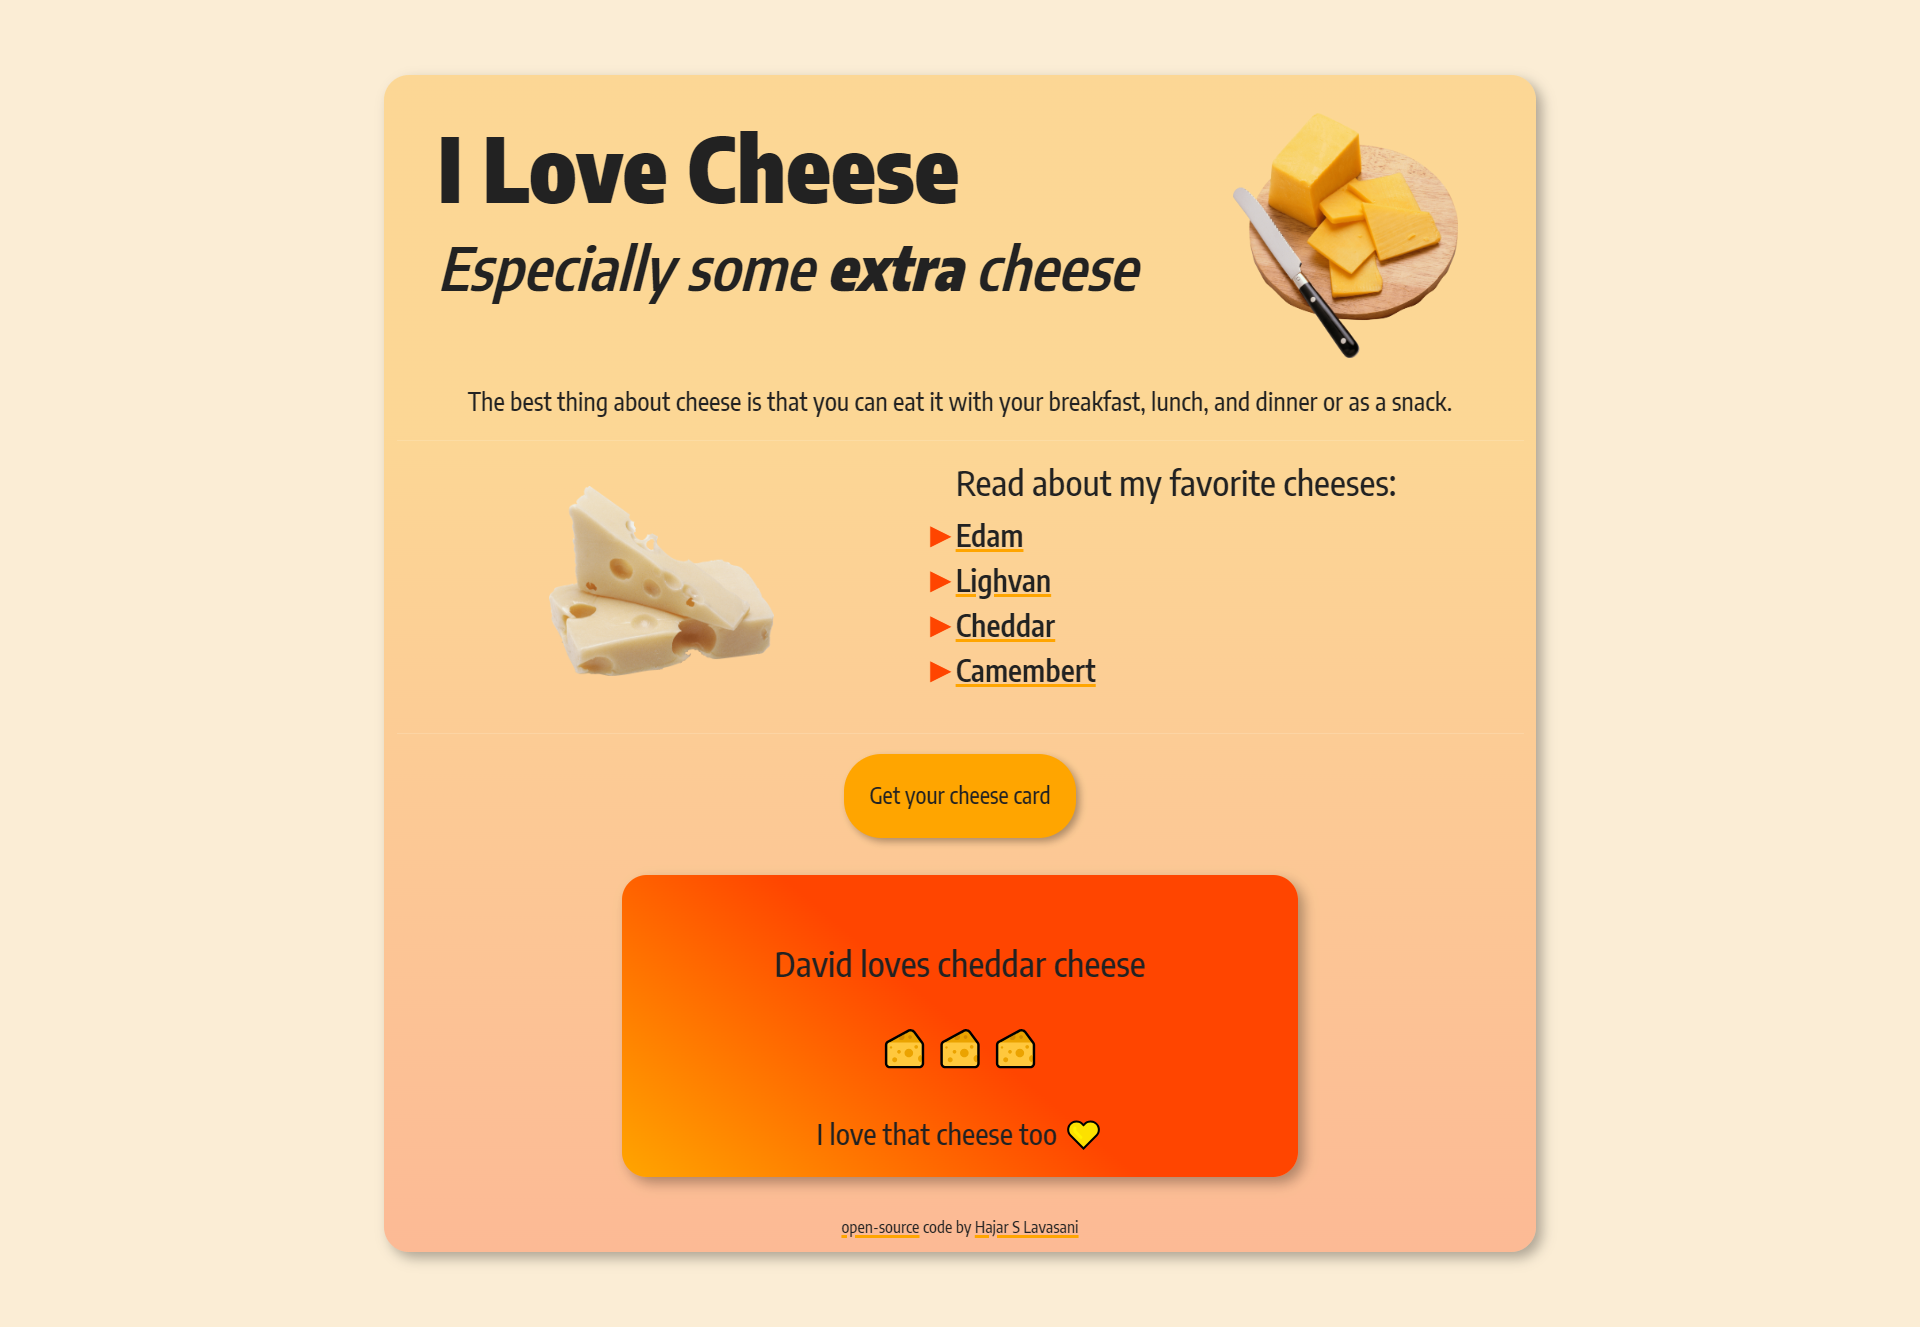
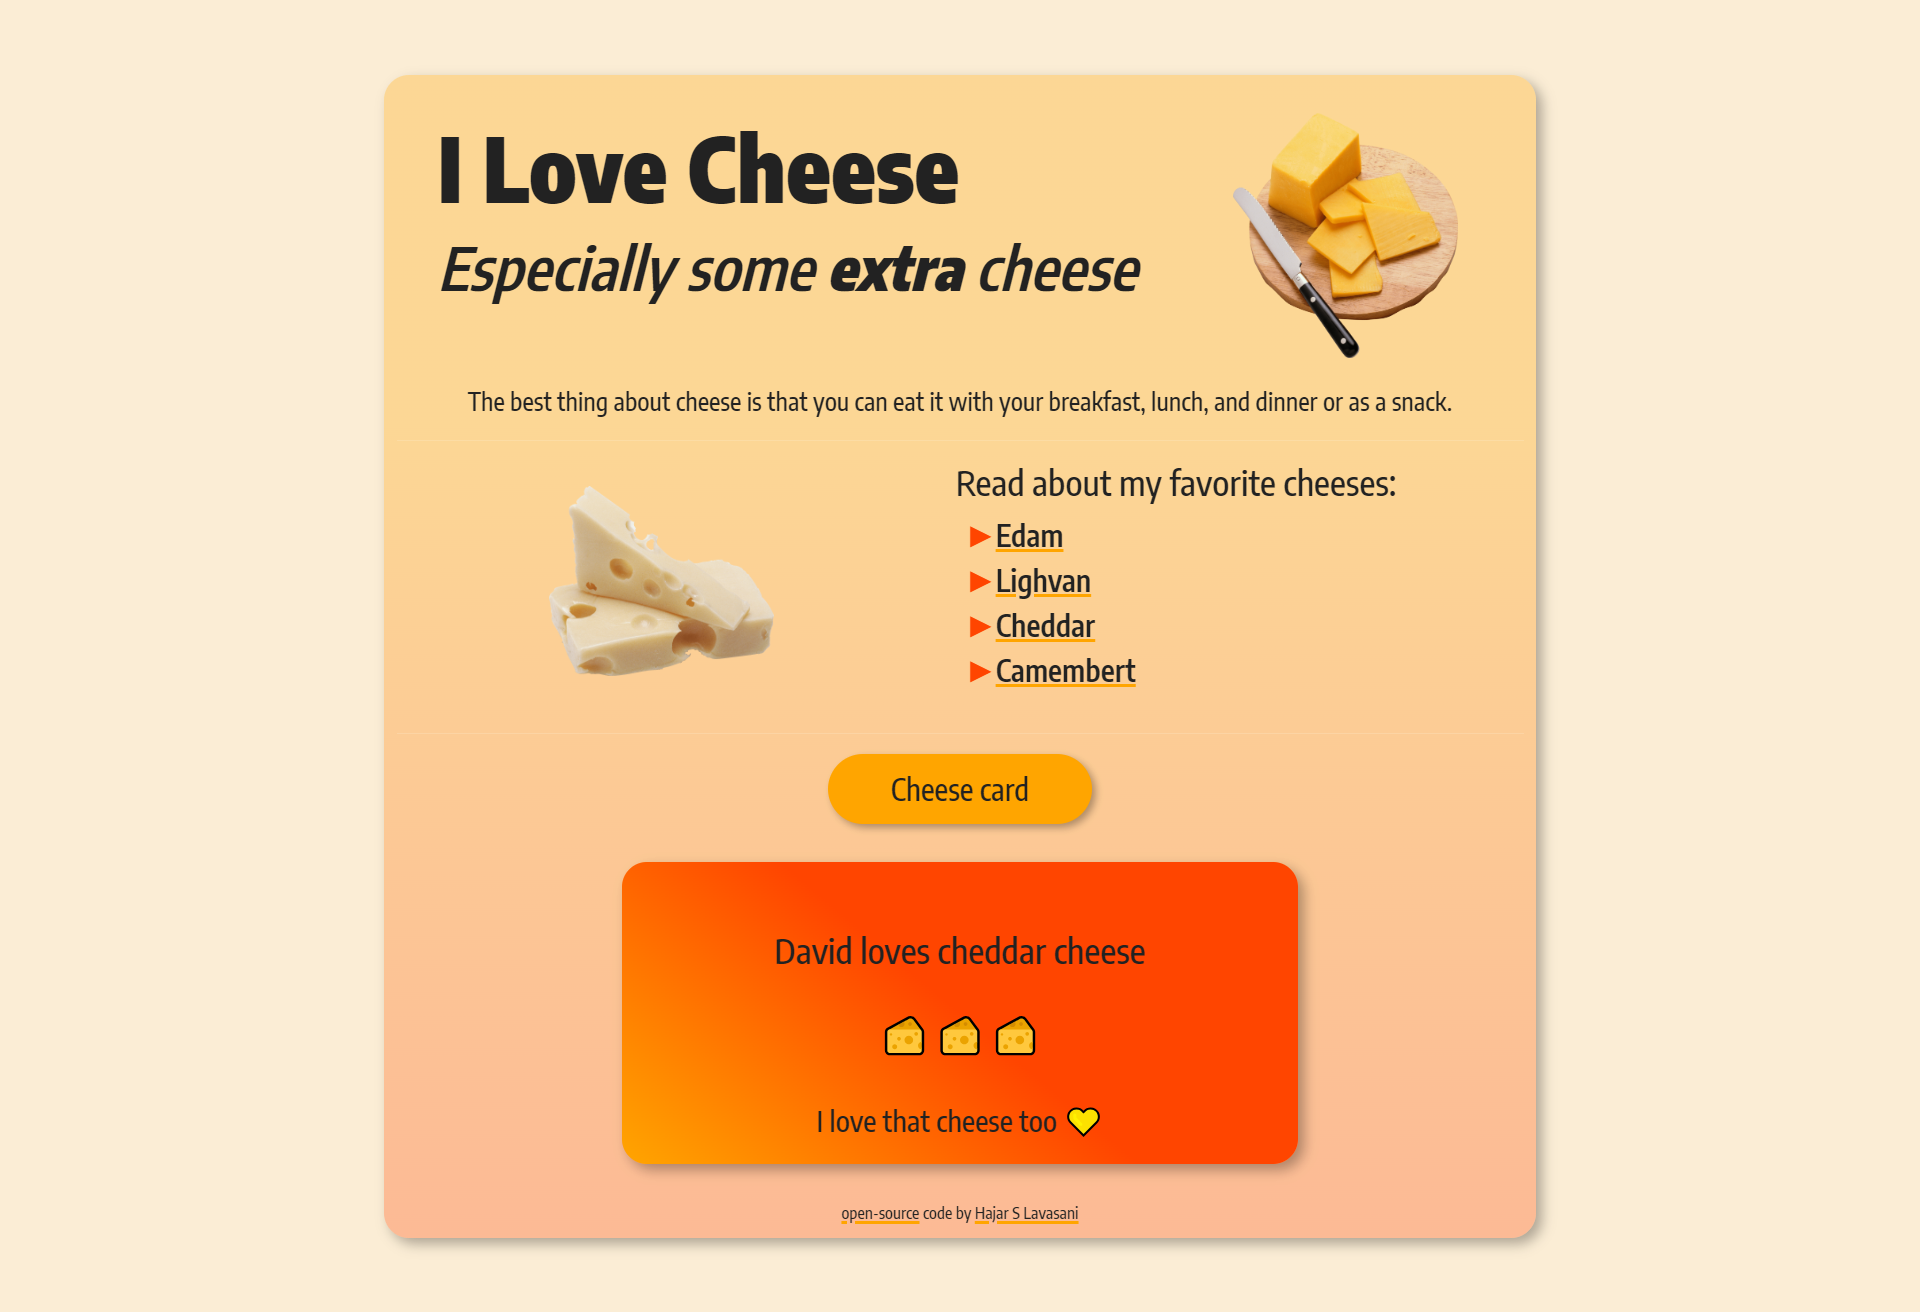
CSS changed button style

diff --git a/css/styles.css b/css/styles.css
@@ -88,8 +88,8 @@ button {
   display: block;
   color: var(--secondary-color);
   background: orange;
-  padding: 20px;
-  font-size: 18px;
+  padding: 10px 50px 10px 50px;
+  font-size: x-large;
   box-shadow: 3px 3px 6px rgba(0, 0, 0, 0.3);
   border: none;
   border-radius: 30px;

diff --git a/index.html b/index.html
@@ -88,7 +88,7 @@
         </div>
       </div>
       <hr>
-      <button>Get your cheese card</button>
+      <button>Cheese card</button>
       <h4><br /></h4>
 
       <footer class="coder">
